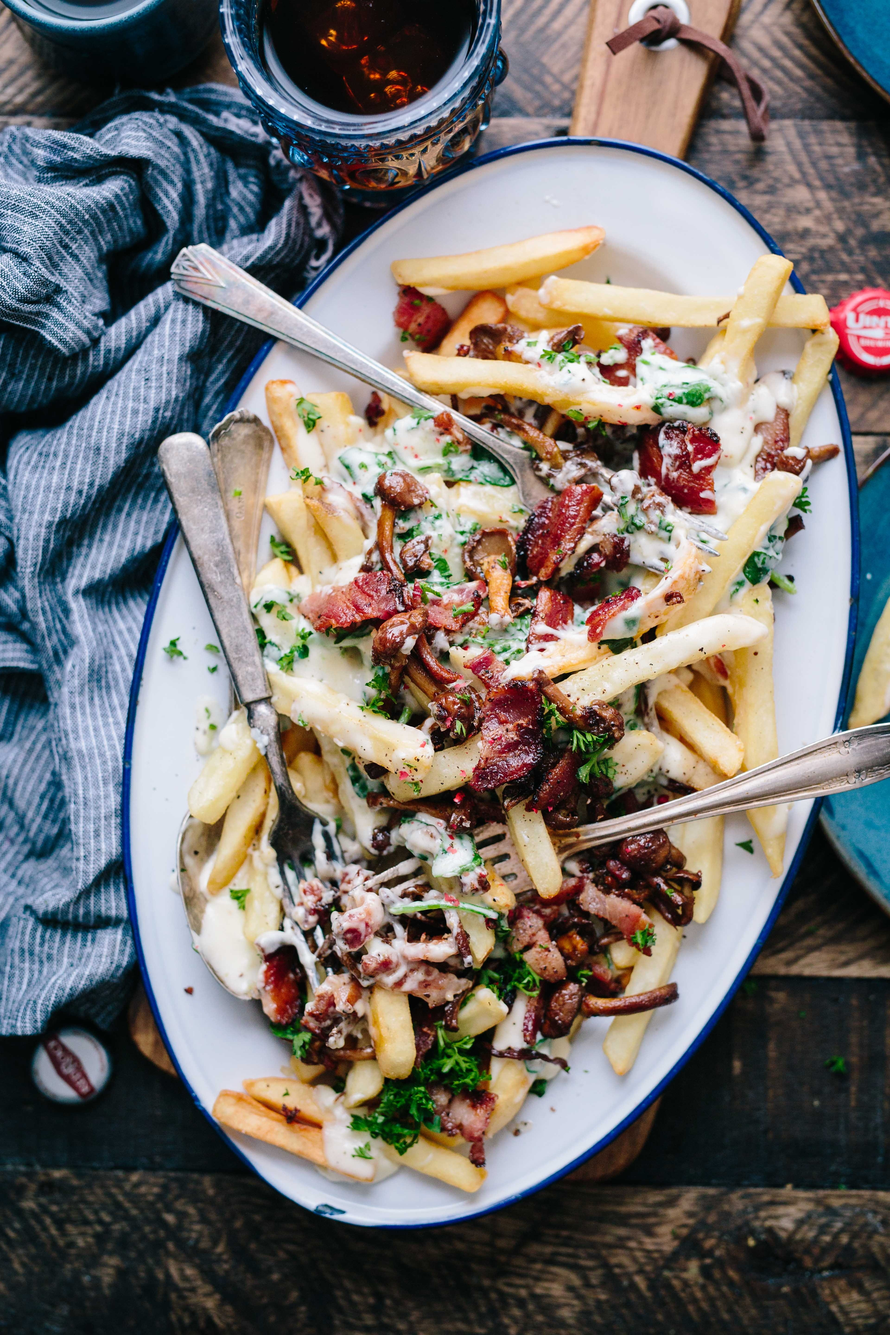
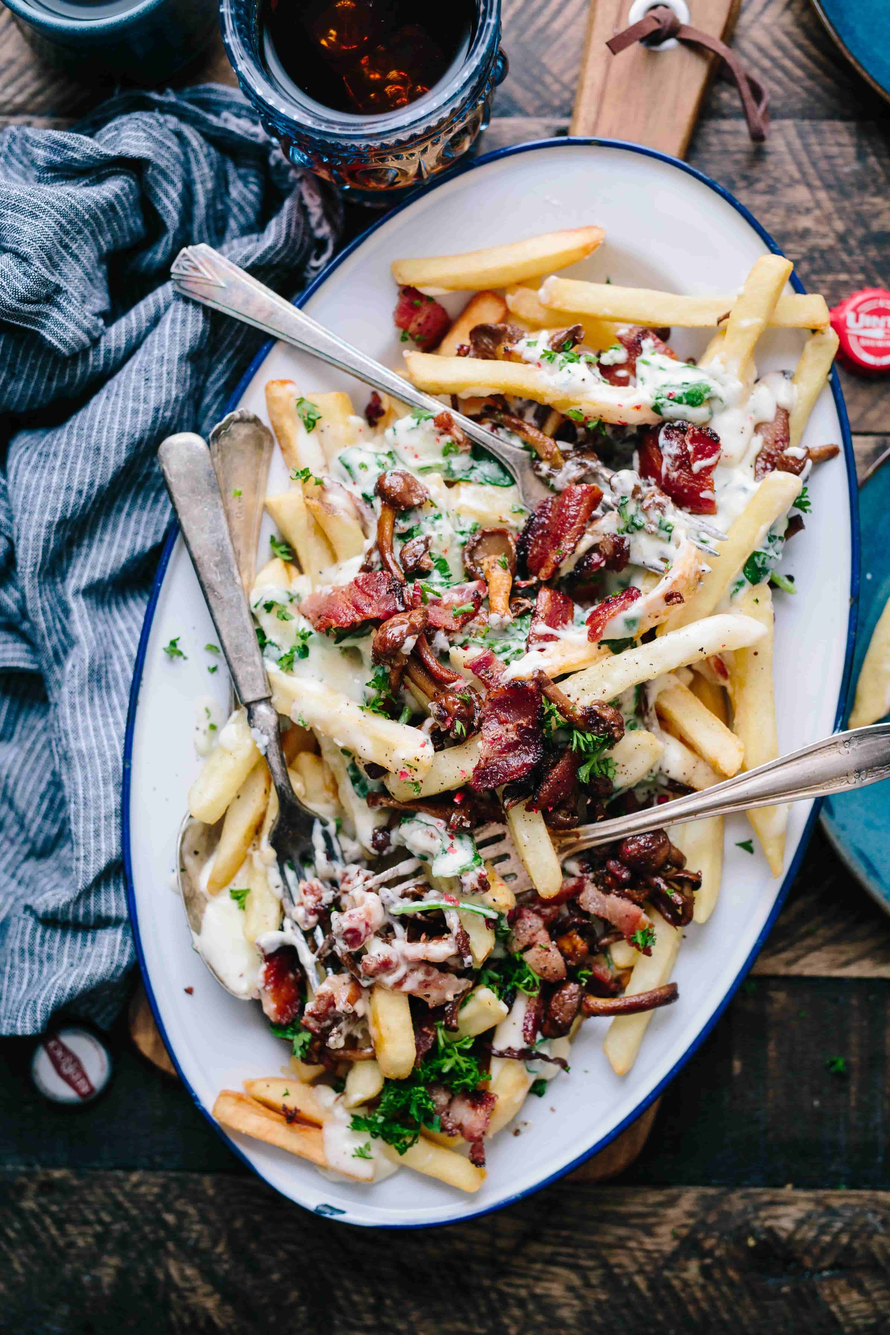
Compressing images.

Changed region(s): [[0.5312, 0.5312, 0.5938, 0.5938], [0.4375, 0.4375, 0.4688, 0.4688]]

diff --git a/gulpfile.js b/gulpfile.js
@@ -6,7 +6,7 @@ gulp.task('default', () =>
 	gulp.src('assets/img/*')
 		.pipe(imagemin([
             imageminMozjpeg({
-                quality: 80
+                quality: 20
             })
         ]))
 		.pipe(gulp.dest('static/img'))
